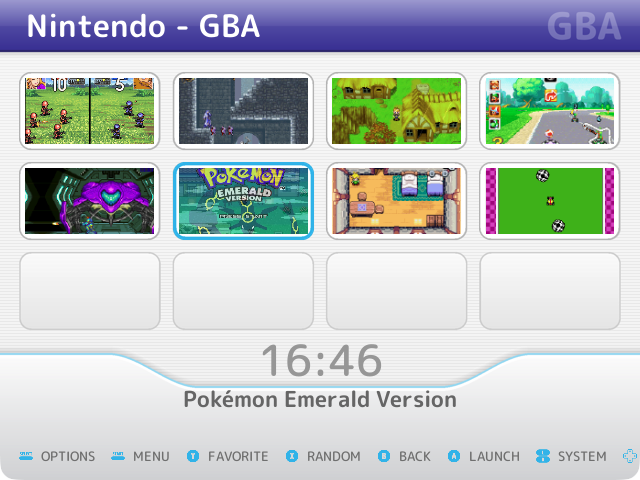
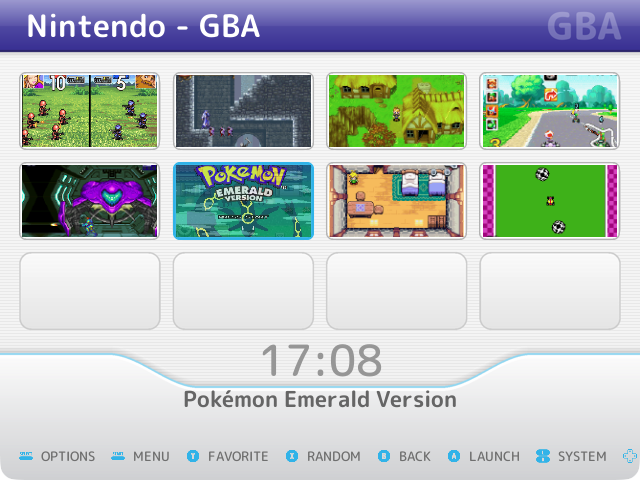
es-theme-cartridge: Let the grid's art fill its tile up to a thin frame
The white bezel around each game's art is now a 3-pixel frame (a gray edge
and a white line, or the blue outline when selected), with corners just round
enough to keep the art's square corners inside.

Changed region(s): [[0.0312, 0.1562, 0.9688, 0.3125], [0.0312, 0.3438, 0.9688, 0.5], [0.4375, 0.7188, 0.5938, 0.7812]]

diff --git a/generator/main.go b/generator/main.go
@@ -198,17 +198,17 @@ func gridBackground() image.Image {
 	return c.done()
 }
 
-// gameTile is the nine-patch behind a game in the grid (theme.xml's backgroundCornerSize is 16 16): a white
-// bezel around the game's art, with the blue outline when it's selected.
+// gameTile is the nine-patch behind a game in the grid (theme.xml's backgroundCornerSize is 16 16): a thin frame
+// around the game's art, which fills the rest (theme.xml's padding is 3), gray with a white line inside, or the
+// blue outline when it's selected. The corners are only a little rounded so the art's square corners, 3 pixels in,
+// stay inside them: rounding the art itself would stop ES drawing the tile's video.
 func gameTile(selected bool) image.Image {
-	const n = 48.0
+	const n, r = 48.0, 7.0
 	c := newCanvas(n, n)
-	c.roundRect(0, 0, n, n, 12, frameEdge)
-	c.roundRect(1.5, 1.5, n-3, n-3, 10.5, white)
-	c.roundRect(6, 6, n-12, n-12, 5, rgb(0xEDEDED))
+	c.roundRect(0, 0, n, n, r, frameEdge)
+	c.roundRect(1.5, 1.5, n-3, n-3, r-1.5, white)
 	if selected {
-		c.ring(0, 0, n, n, 12, 3.5, blue)
-		c.ring(3.5, 3.5, n-7, n-7, 8.5, 1, withAlpha(white, 200))
+		c.ring(0, 0, n, n, r, 3, blue)
 	}
 	return c.done()
 }
